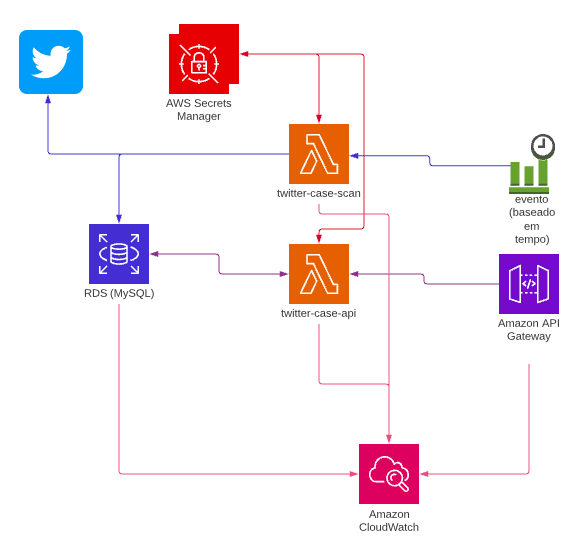
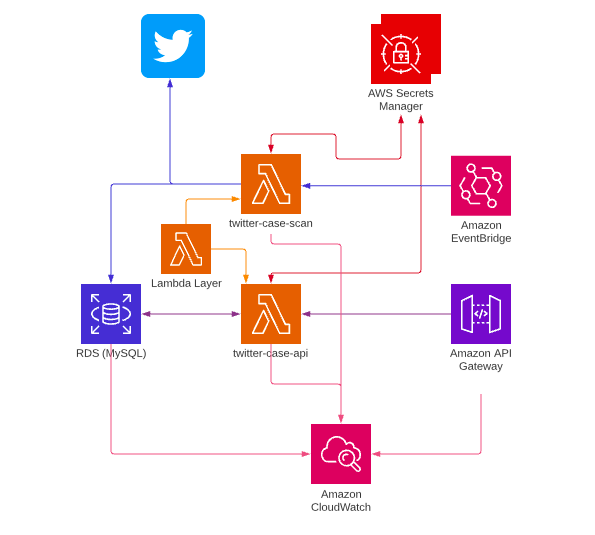
updating readme

Changed region(s): [[0.0929, 0.0, 0.9604, 0.9869], [0.031, 0.0299, 0.1549, 0.2692]]

diff --git a/README.md b/README.md
@@ -13,7 +13,8 @@
         - twitter-case-scan: Que é executada através de uma regra do EventBridge a cada 12 horas procurando pelas tags #openbanking, #remediation, #devops, #sre, #microservices, #observability, #oauth, #metrics, #logmonitoring, #opentracing e guardando em 2 tabelas em um RDS - MySQL.
 
         - twitter-case-api: É a execução da API através do API Gateway que faz a query no RDS citado previamente.
-
+        
+        Ambas utilizam uma Lambda Layer com os pacotes requests, pymysql, logger e dotenv.
         Ambas funçoes utilizam do Secrets Manager para gerenciar tanto o token do Twitter, quanto as credenciais do MySQL.
 
 ## Dashboard:
@@ -27,7 +28,6 @@
    ###### Logs:
    ![Logs](/img/Logs.png)
         Logs das lambdas e da API Gateway, são segmentadas com chave="valor" para facilitação de leitura por qualquer serviço de ingestão de logs.
-
 
 ## API:
    ###### Postman Collection:
@@ -322,4 +322,10 @@
 ###### Deploy:
 **NOT READY**
     Com usuário configurado com acesso programático via CLI execute o main.tf
+
+
+    TO DO : 
+    
+    Implement create table on scan
+    Implement VPC - subnet - etc on this env
 
